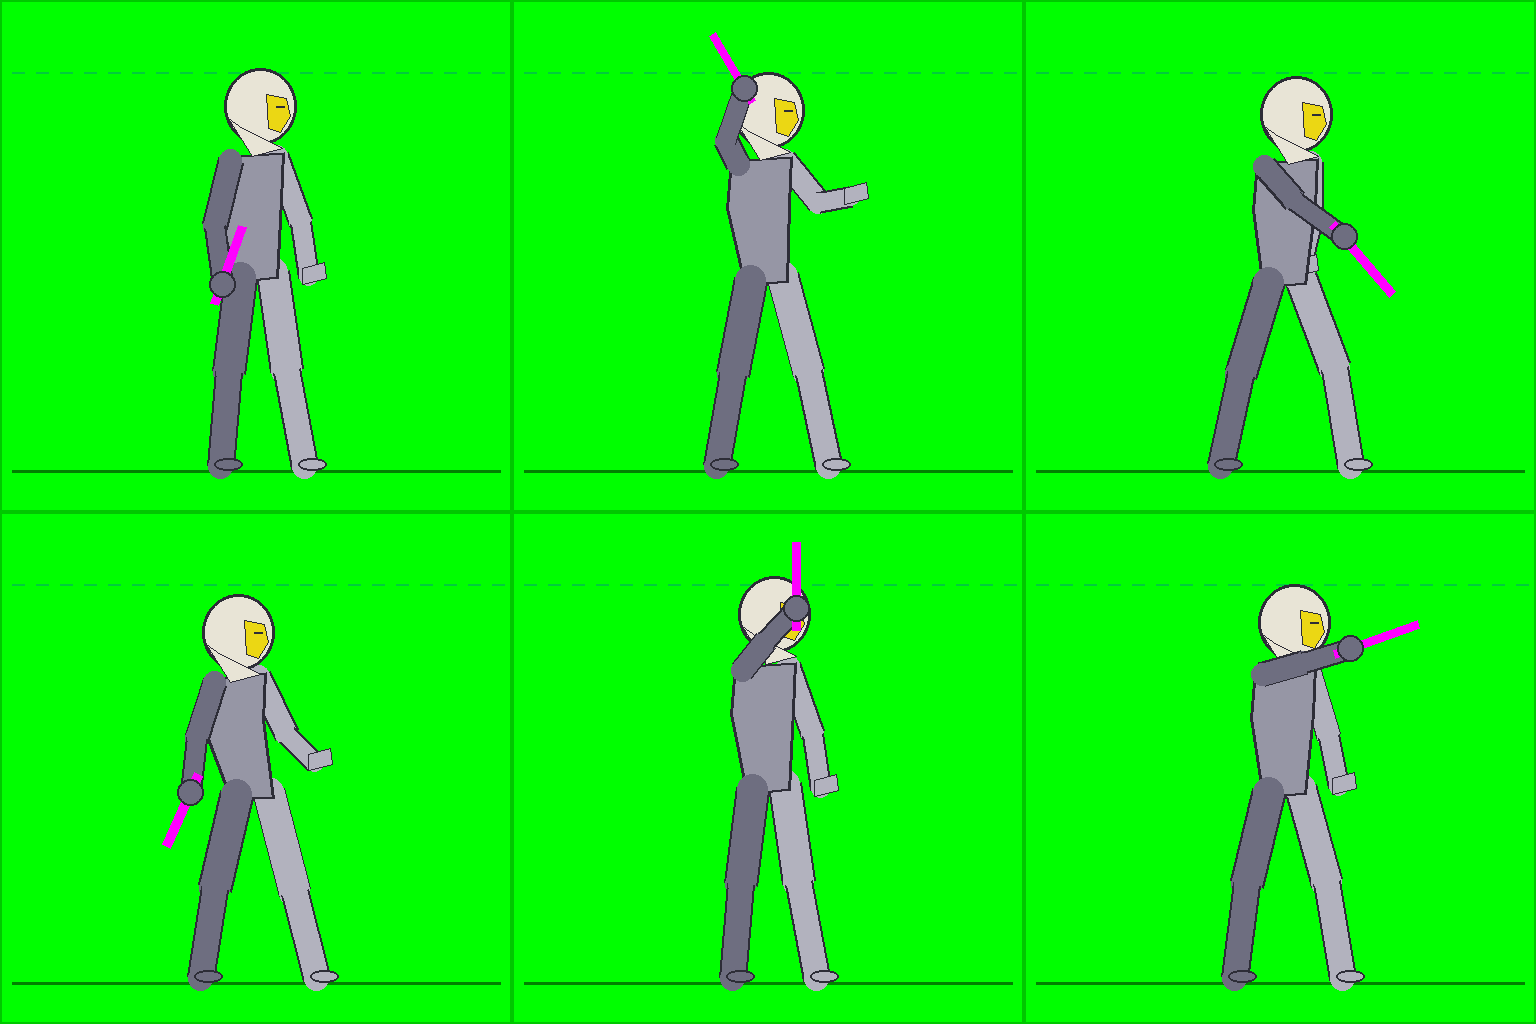
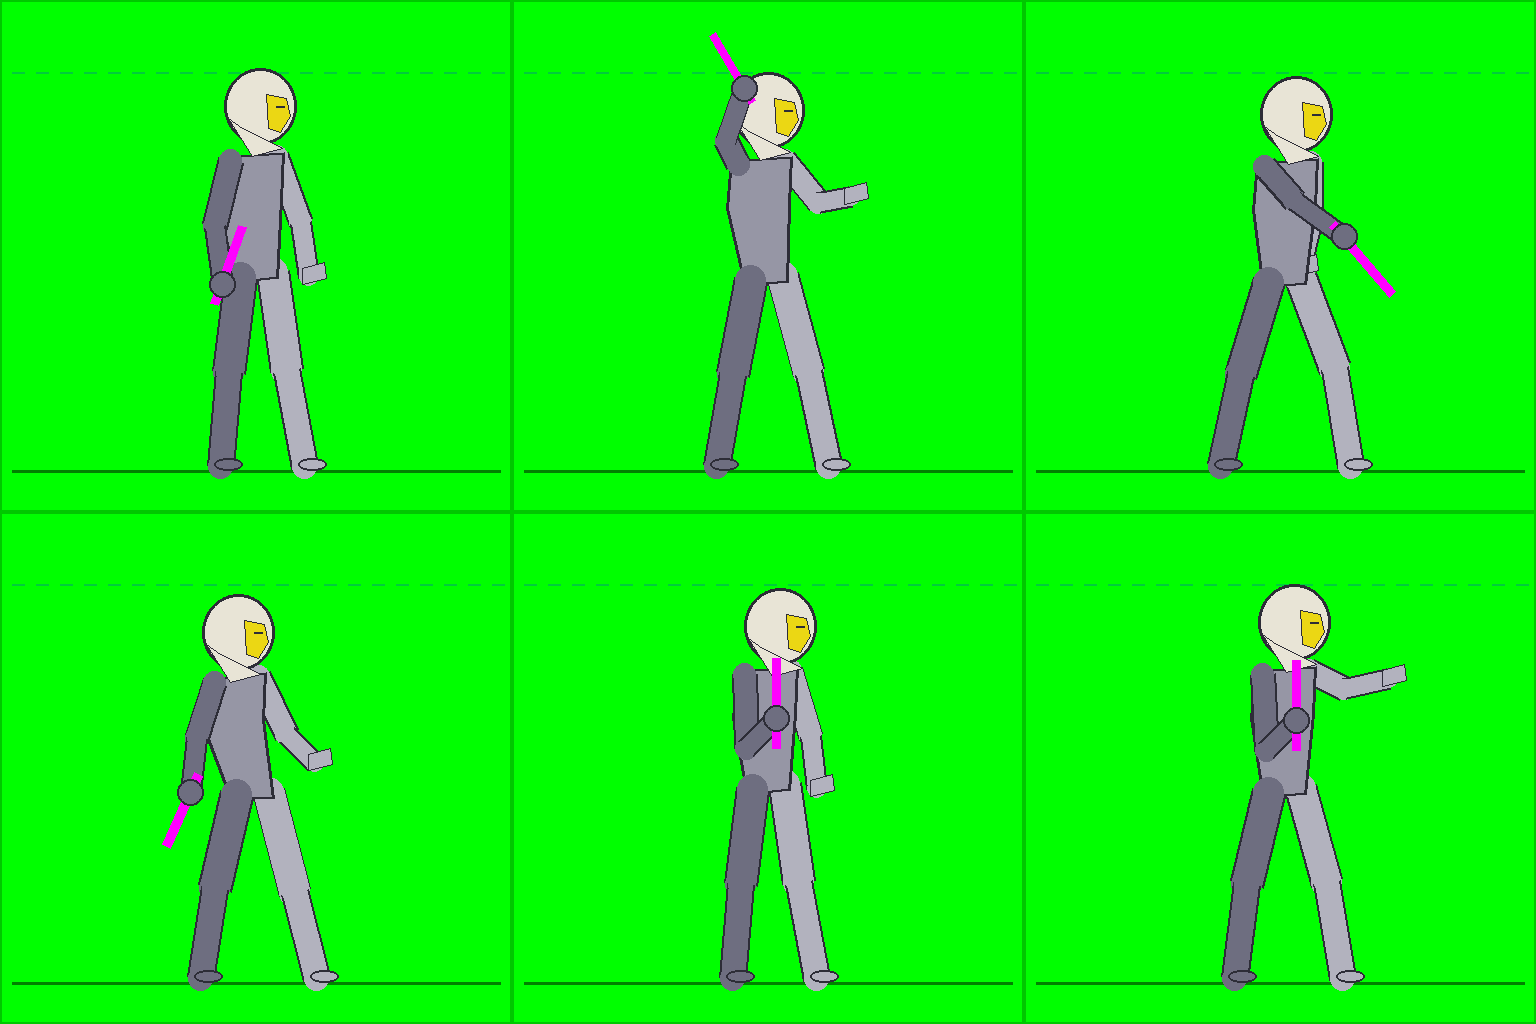
Acolyte mace channel/cast: mace upright at the chest (no wand look)
Claude-Session: https://claude.ai/code/session_01M8ejkLTav7LEMdtajuWjkN

Changed region(s): [[0.4688, 0.5312, 0.5625, 0.7812], [0.8125, 0.5938, 0.9375, 0.7812]]

diff --git a/art_source/new_art/battle/tools/acolyte_pose_draft.py b/art_source/new_art/battle/tools/acolyte_pose_draft.py
@@ -28,24 +28,27 @@ MACE_LOW = dict(En=(150, 226), Wn=(158, 284), rods=[('near', MAG, (150, 304), (1
 MACE_UP = dict(En=(150, 140), Wn=(168, 88), rods=[('near', MAG, (176, 102), (136, 34))])       # wound up over the head
 MACE_DOWN = dict(En=(206, 200), Wn=(256, 236), rods=[('near', MAG, (244, 224), (304, 294))])   # struck down in front
 MACE_HIT = dict(En=(132, 226), Wn=(126, 280), rods=[('near', MAG, (134, 262), (102, 334))])
-MACE_HOLY = dict(En=(190, 128), Wn=(220, 96), rods=[('near', MAG, (220, 118), (220, 30))])    # raised as a holy focus
-MACE_CAST = dict(En=(216, 150), Wn=(262, 136), rods=[('near', MAG, (246, 142), (330, 112))])  # thrust toward the target
+# spell frames with a one-handed weapon (user, 2026-11-27: the raised / pointed mace looked like a wand): the mace is held
+# upright against the chest like a holy symbol, head bowed; for the cast the off hand thrusts forward (shield: raised)
+PRAY = dict(head=(206, 116), Sn=(168, 162), Sf=(214, 158), Hn=(176, 277), Hf=(208, 272), Kn=(164, 372), Fn=(156, 466),
+            Kf=(222, 370), Ff=(240, 466))
+MACE_CHEST = dict(En=(170, 236), Wn=(200, 206), rods=[('near', MAG, (200, 236), (200, 146))])
 
 SHIELD = {
     (0, 0): dict(STAND, **MACE_LOW, Ef=(238, 212), Wf=(254, 232), shield=(262, 228, 46)),
     (0, 1): dict(BRACE, **MACE_UP, Ef=(236, 206), Wf=(254, 220), shield=(262, 214, 46)),
     (0, 2): dict(STEP, **MACE_DOWN, Ef=(248, 216), Wf=(262, 252), shield=(272, 250, 46)),
     (1, 0): dict(RECOIL, **MACE_HIT, Ef=(220, 218), Wf=(236, 204), shield=(244, 204, 46)),
-    (1, 1): dict(UPWARD, **MACE_HOLY, Ef=(238, 210), Wf=(254, 230), shield=(262, 226, 46)),
-    (1, 2): dict(LEAN, **MACE_CAST, Ef=(244, 220), Wf=(258, 248), shield=(266, 244, 46)),
+    (1, 1): dict(PRAY, **MACE_CHEST, Ef=(240, 214), Wf=(258, 240), shield=(268, 240, 44)),
+    (1, 2): dict(LEAN, En=(178, 238), Wn=(208, 208), rods=[('near', MAG, (208, 238), (208, 148))], Ef=(248, 192), Wf=(266, 200), shield=(276, 196, 46)),
 }
 ONE = {
     (0, 0): dict(STAND, **MACE_LOW, Ef=(236, 222), Wf=(244, 276), open_far=True),
     (0, 1): dict(BRACE, **MACE_UP, Ef=(242, 202), Wf=(274, 196), open_far=True),
     (0, 2): dict(STEP, **MACE_DOWN, Ef=(222, 226), Wf=(212, 268), open_far=True),
     (1, 0): dict(RECOIL, **MACE_HIT, Ef=(222, 222), Wf=(250, 250), open_far=True),
-    (1, 1): dict(UPWARD, **MACE_HOLY, Ef=(236, 222), Wf=(244, 276), open_far=True),
-    (1, 2): dict(LEAN, **MACE_CAST, Ef=(240, 224), Wf=(250, 274), open_far=True),
+    (1, 1): dict(PRAY, **MACE_CHEST, Ef=(234, 224), Wf=(240, 276), open_far=True),
+    (1, 2): dict(LEAN, En=(178, 238), Wn=(208, 208), rods=[('near', MAG, (208, 238), (208, 148))], Ef=(256, 176), Wf=(300, 166), open_far=True),
 }
 STAFF = {
     (0, 0): dict(STAND, En=(172, 224), Wn=(198, 216), Ef=(232, 230), Wf=(214, 258), rods=[('both', MAG, (198, 80), (222, 440))]),

diff --git a/docs/design-decisions.md b/docs/design-decisions.md
@@ -32,7 +32,7 @@ Archer and Mage melee weapons limited to **light** weapons on 2026-11-16 (user: 
 
 **Archer battle sprites (2026-11-24/25):** design sheet by ChatGPT (`source/concepts/archer_design.png`), **hood up** (user's headgear choice), so the hood hides the hair (no hair key) and the face is the only skin. Poses come from **mannequin pose drafts drawn in code** (`tools/archer_pose_draft.py`, `refs/archer_*pose_draft.png`): NEAR arm darker in front, FAR arm lighter behind, sticks in the right hands. Two sheets: **main = bow + crossbow, done** (`source/archer_m_sheet.png`, ChatGPT from the 2 × 4 pose draft, 2026-11-25): bow row stand | nock | release | hit (bow = cyan stick in the far hand, arrow = magenta line), crossbow row stand | aim | release | hit (one magenta stock in both fists). **Dagger sheet** (user, 2026-11-25: one ChatGPT task, "combine 1 handed you design and old dual weapon pose"), 4 × 3: row 1 = **one dagger** stand | ready | attack | hit (off-hand open and empty - for the Archer this replaces the one-weapon-uses-the-dual-stance rule); rows 2-3 = **dual daggers with the Soldier's dual poses** (stand | ready | slash 1 | slash 2 | finish | hit), the pose sheet shows the Soldier's finished dual figures, so the Soldier's drawn slash arc/smear can be reused: **done for the male** (2026-11-25, user: slash 1 and 2 were missing the wave) with `tools/reuse_slash_fx.py` - the Soldier's effect cell scaled by the stand-height ratio and placed on the Archer's feet, saved whole (arcs reach past the cell) as `source/archer_dagger_m_fx/<state>.png` + `offsets.json`; preview `review_archer_dagger_fx.png`. Male dagger sheet = `source/archer_dagger_m_sheet.png` (ChatGPT original kept in `source/concepts/archer_dagger_m_sheet_gpt_raw.png`; **slash 2 = the FINISH figure with its magenta stick removed**, hand empty - user, 2026-11-25 - by `tools/archer_fix_slash2_arm.py`; the sweep moved to start at that hand). **Archer downed sprite** (2026-11-25): ChatGPT on `templates/archer_downed_template.png` (bottom row = male bow stand, female from the design sheet; pose copied from the Soldier's downed sheet) -> `source/archer_downed_sheet.png`, both sexes, kneeling, hood up, empty hands, blue quiver marker. **Combined male sheet** (user, 2026-11-25): `tools/combine_archer_sheet.py` puts all 19 male poses at one scale on `source/archer_m_all_sheet.png` (1536 × 2560; rows: bow | crossbow | one dagger | dual stand, ready, slash 1 + downed | dual slash 2, finish, hit in wide cells), cell map in `archer_m_all_layout.json`. **No slash arcs on it** (user, 2026-11-25): they are their own layer (`source/archer_dagger_m_fx/`), added to the frames by the build and reused for the female. **Archer hair (user, 2026-11-25):** the hood keeps long hair inside, so the hair that shows inside the hood (fringe, locks beside the face) is **one piece for every hairstyle**, tinted with the hero's hair ramp (`HAIR_ALWAYS` in `process_battle.py`; other classes still show their hair key only for long styles). Gemini repainted it in the red key on both combined sheets (`source/concepts/archer_<sex>_all_hair_gemini.png`, returned at half size); `tools/archer_hair_merge.py` takes only the red hair from them, scales it up and lays it on the untouched bodies (body without hair kept as `source/concepts/archer_<sex>_all_sheet_nohair.png`). The hair is slightly soft from the half-size Gemini output. The blue back marker stands for the quiver **or** the bolt case (same back slot; the game shows whichever ammunition is equipped). Not yet built into sprites: `process_battle.py` needs Archer loadouts (bow as a cyan stick, a code-drawn crossbow, the blue quiver marker cut out and replaced by the quiver layer). Male first by ChatGPT, female as Gemini edits of the finished male sheets.
 
-**Acolyte battle sprites (started 2026-11-26; prompts say ACOLYTE, never Cleric - user):** user's concept `source/concepts/acolyte_design.png`: white hooded robe with gold trim, gold cross on the capelet, teal undercoat and stole with gold fleurs-de-lis, brown belt/pouch/gloves/boots, **hood up** (headgear). **Own calmer priest poses, not the Soldier's** (user). Weapon access checked against the weapon sheet; the user picked these stances: **one-handed + round shield, one-handed without shield (off-hand open), two-handed staff (quarterstaff/spear), reach (longspear), crossbow** (light/heavy crossbow are simple weapons; sling/darts/javelin get no poses). Each stance sheet (2 × 3): stand | ready | attack / hit | **channel | cast** - weapon attack = prepare + attack; spell or cantrip = channel + cast with the **held weapon raised as the holy focus**, far arm unchanged (user). Mannequin drafts `tools/acolyte_pose_draft.py` -> `refs/acolyte_<stance>_pose_draft.png`, Gemini prompt in `PROMPTS.md`; male first, female by Gemini edit. Hair inside the hood = red key, shown for every hairstyle (like the Archer); the many gold trims must stay orange-gold so they are not read as the yellow face key (the skin cut may need a stricter yellow test). Round shield look proposed: white face, gold cross, thick gold rim, thin teal ring (not yet confirmed). A Soldier-pose version made earlier the same day was dropped.
+**Acolyte battle sprites (started 2026-11-26; prompts say ACOLYTE, never Cleric - user):** user's concept `source/concepts/acolyte_design.png`: white hooded robe with gold trim, gold cross on the capelet, teal undercoat and stole with gold fleurs-de-lis, brown belt/pouch/gloves/boots, **hood up** (headgear). **Own calmer priest poses, not the Soldier's** (user). Weapon access checked against the weapon sheet; the user picked these stances: **one-handed + round shield, one-handed without shield (off-hand open), two-handed staff (quarterstaff/spear), reach (longspear), crossbow** (light/heavy crossbow are simple weapons; sling/darts/javelin get no poses). Each stance sheet (2 × 3): stand | ready | attack / hit | **channel | cast** - weapon attack = prepare + attack; spell or cantrip = channel + cast with the **held weapon raised as the holy focus**, far arm unchanged (user); for the one-handed mace (shield and no-shield sheets) the mace is held **upright against the chest** like a holy symbol, head bowed, and for the cast the off hand thrusts forward / the shield rises (user, 2026-11-27: the raised mace looked like a wand). Mannequin drafts `tools/acolyte_pose_draft.py` -> `refs/acolyte_<stance>_pose_draft.png`, Gemini prompt in `PROMPTS.md`; male first, female by Gemini edit. Hair inside the hood = red key, shown for every hairstyle (like the Archer); the many gold trims must stay orange-gold so they are not read as the yellow face key (the skin cut may need a stricter yellow test). Round shield look proposed: white face, gold cross, thick gold rim, thin teal ring (not yet confirmed). A Soldier-pose version made earlier the same day was dropped.
 
 **Warrior look (user, 2026-11-18): a barbarian, but armored** — can wear up to medium armor, so leather and chain or scale over a barbarian build (furs, leather harness), not the old Brawler's sleeveless tunic. Exact outfit to be drawn with the new art. Legacy battle-sprite and portrait files keep the name `brawler` (they are the old look and reference only).
 

diff --git a/art_source/new_art/battle/PROMPTS.md b/art_source/new_art/battle/PROMPTS.md
@@ -812,6 +812,10 @@ Colour keys:
 
 No weapons (only the flat magenta sticks, flat colour, no shading, fingers wrapped over them), no effects, glow, shadows on the ground or text. Keep the canvas size, the grid, the green and the lines exactly. Output the whole sheet at the same size.
 ```
+Shield and one-handed sheets (user, 2026-11-27: the raised mace looked like a wand) - add after the arm rules:
+"- In the bottom-middle and bottom-right cells (channel, cast) the near hand holds the magenta stick UPRIGHT against the
+middle of the chest like a holy symbol, the head bowed in prayer in the bottom-middle cell; in the bottom-right cell the far
+arm reaches forward (open empty hand thrust toward the target, or the round shield raised a little)."
 `<SHIELD>` on the shield sheet: "- The far forearm carries the acolyte's ROUND shield where the grey disc is, in front of the
 body, the same size and angle: white face with a gold cross, a thick gold rim and a thin teal ring inside the rim, no other
 symbols." On the other sheets delete the line.
